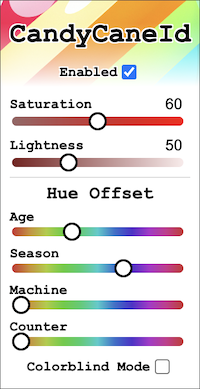
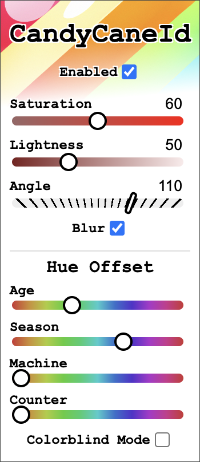
README

diff --git a/README.md b/README.md
@@ -56,8 +56,8 @@ ObjectId is 5 years old or more.
 
 The second band of color represents the time of year or **season** when the ObjectId was created.
 This is done by taking the time within the given year of creation and modulating it over the color
-wheel. By default, the colors are mapped such that winter looks purple/blue, spring looks green, summer
-looks yellow/orange, and fall looks red/magenta.
+wheel. By default, the colors are mapped such that winter looks purple/blue, spring looks green,
+summer looks yellow/orange, and fall looks red/magenta.
 
 ![season](assets/season.png)
 
@@ -81,6 +81,8 @@ Click on the extension icon to adjust the settings to your liking:
 
 - Toggle the **Enabled** checkbox to turn the colorization on/off
 - Use **Saturation** and **Lightness** sliders to adjust the intensity of the colors
+- Use the **Angle** slider to change the angle of the transition between colors
+- Use the **Blur** toggle to turn on/off the blur transition between colors
 - Use **Hue Offset** sliders to shift the hue spectrum for each band of color.
     - NOTE: Moving the **Age** or **Season** sliders will disrupt the documented and meticulously
       hand-crafted color mapping, but you do you.
@@ -138,8 +140,8 @@ Click on the extension icon to adjust the settings to your liking:
 - What's the point of the Hue Offset settings?
     - I don't know, I just threw them in there because they look fun. I suppose if there was one
       ObjectId in particular that was your favorite, you could shift the sliders so that that
-      specific ObjectId has the colorization you want (e.g. all red). But you could only do that
-      for that one ObjectId.
+      specific ObjectId has the colorization you want (e.g. all red). But you could only do that for
+      that one ObjectId.
 
 ## 💡 Inspirations
 
